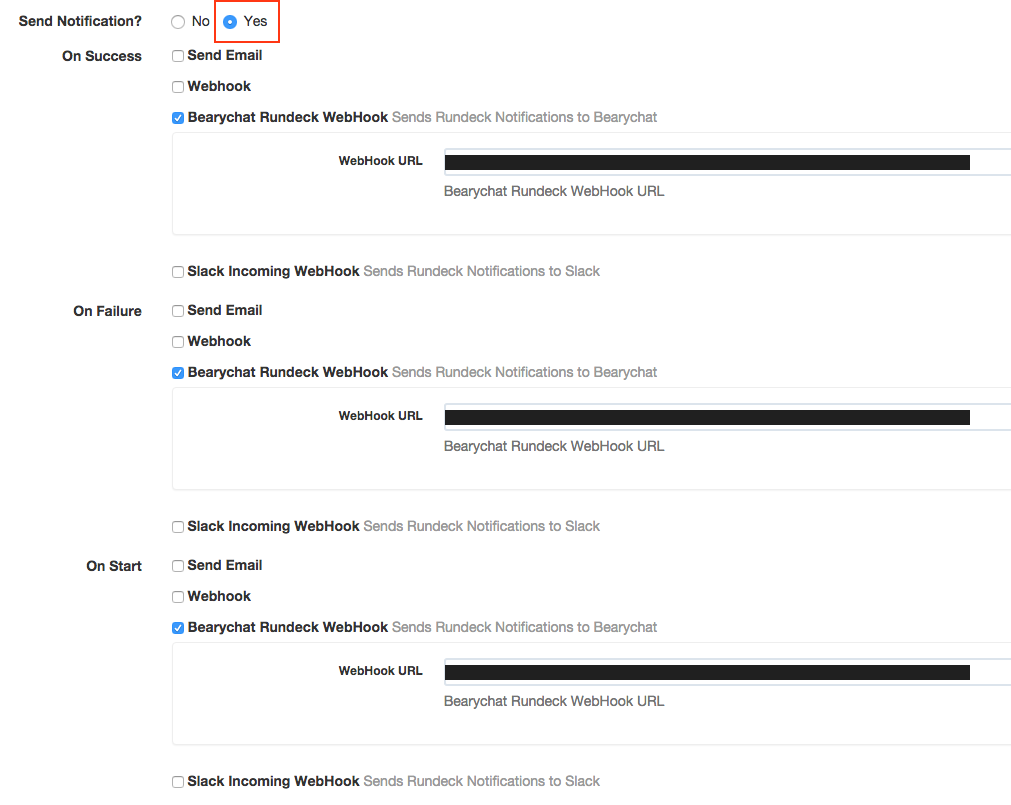
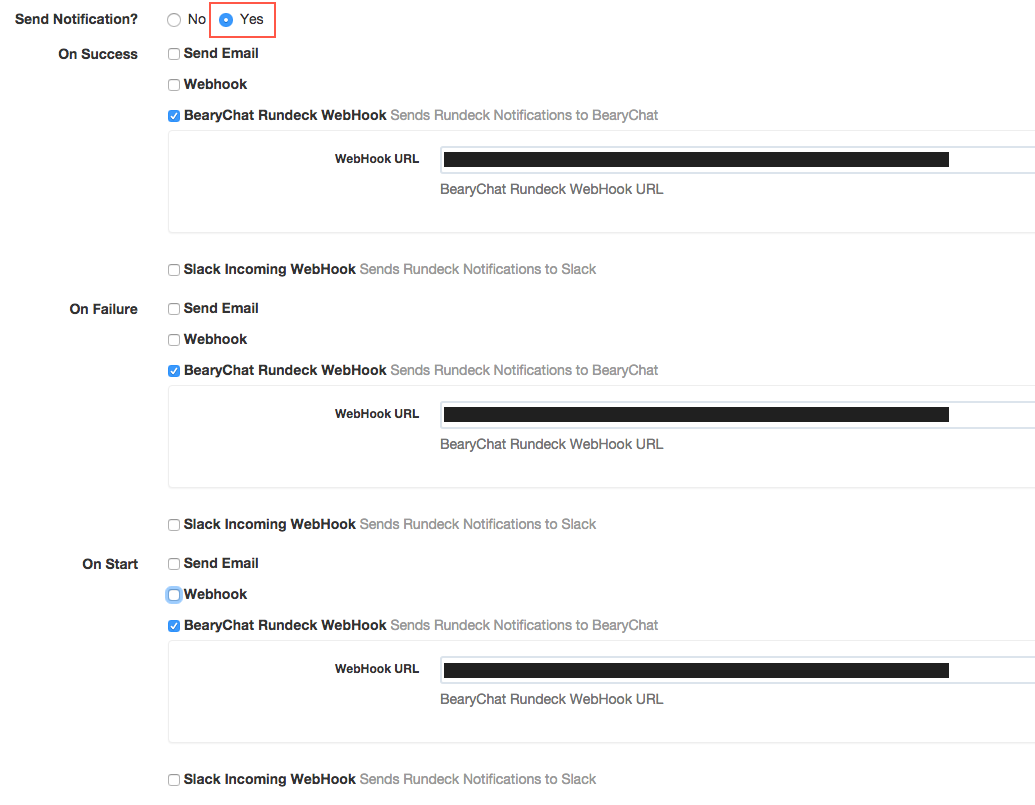
Bearychat -> BearyChat

diff --git a/robots/rundeck.md b/robots/rundeck.md
@@ -14,7 +14,7 @@
 
 ![](/images/tutorial/rundeck_edit_job.png)
 
-在 Job 设置界面中将「Send Notification?」选项勾选为「Yes」，然后在需要设置提醒的 Job 执行状态下面选上「Bearychat Rundeck WebHook」选项，然后将 BearyChat 生成的 Webhook 地址填入「WebHook URL」文本框中，点击保存即可
+在 Job 设置界面中将「Send Notification?」选项勾选为「Yes」，然后在需要设置提醒的 Job 执行状态下面选上「BearyChat Rundeck WebHook」选项，然后将 BearyChat 生成的 Webhook 地址填入「WebHook URL」文本框中，点击保存即可
 
 ![](/images/tutorial/rundeck_set_webhook.png)
 
